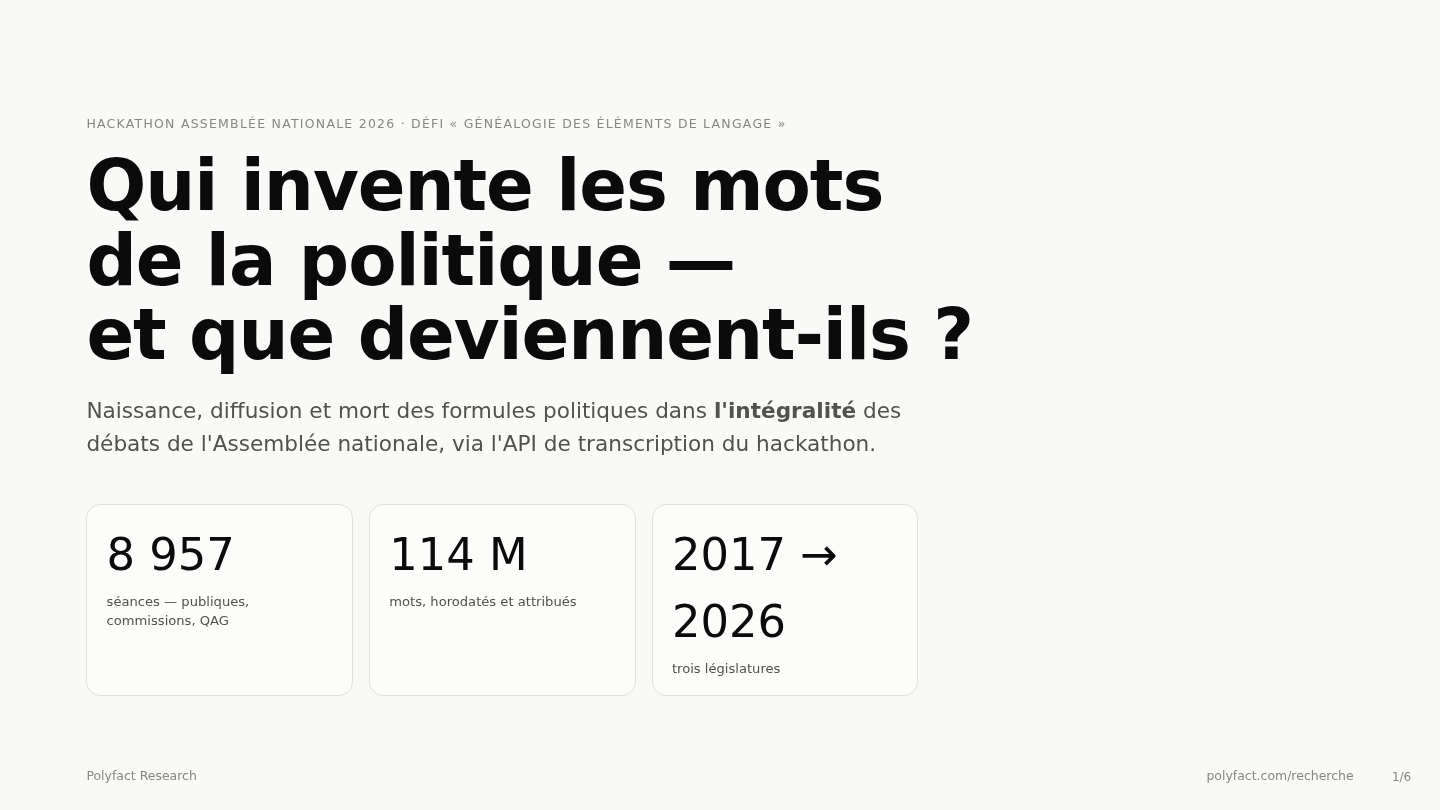
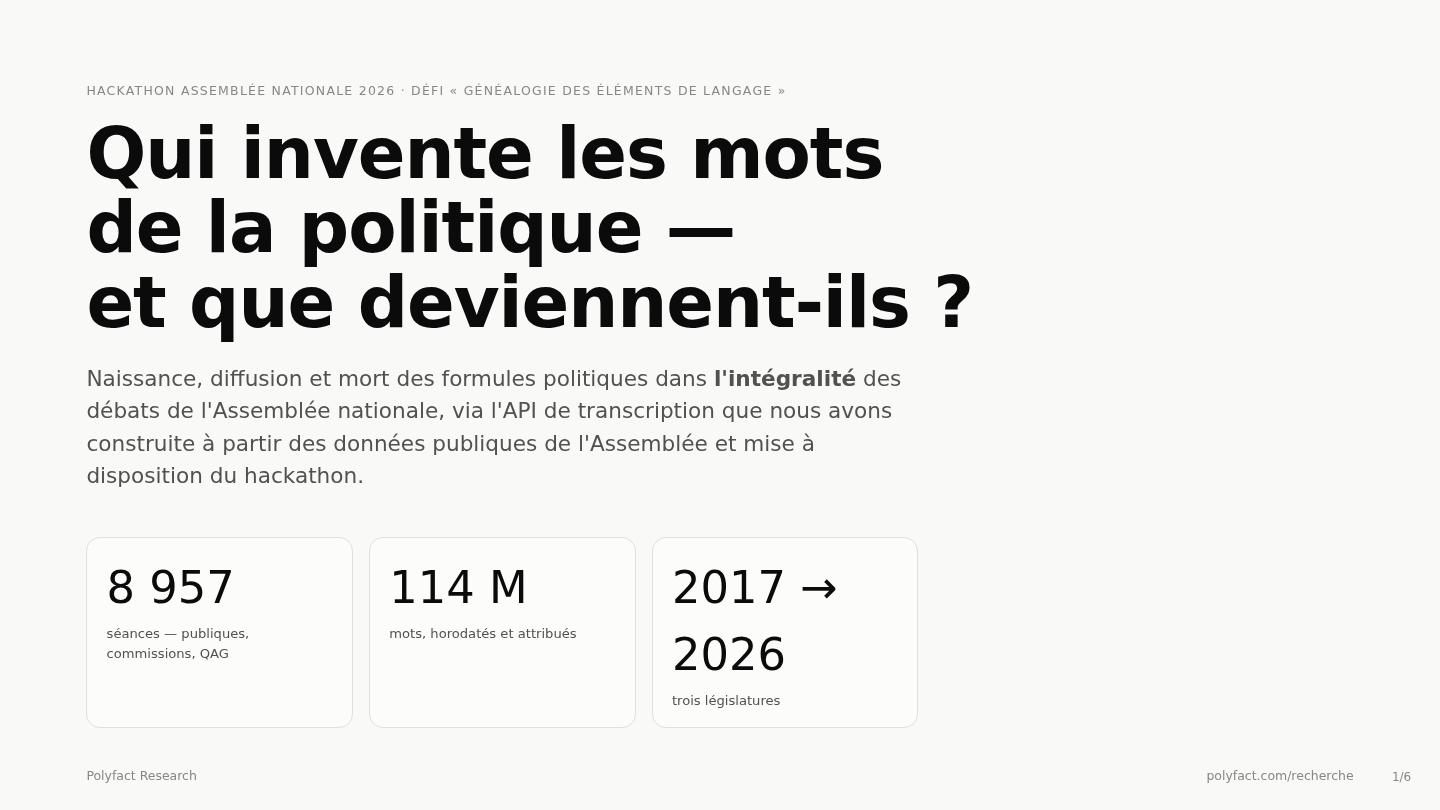
Attribution exacte de l'API : construite par Polyfact sur les données publiques de l'Assemblée, mise à disposition du hackathon

diff --git a/slides/index.html b/slides/index.html
@@ -56,7 +56,7 @@ ul.method li::before { content: ""; position: absolute; left: 0; top: .48em; wid
 <section class="slide active">
   <div class="eyebrow">Hackathon Assemblée nationale 2026 · défi « Généalogie des éléments de langage »</div>
   <h1>Qui invente les mots de la politique —<br/>et que deviennent-ils ?</h1>
-  <p class="sub" style="margin-top:1.4rem">Naissance, diffusion et mort des formules politiques dans <strong>l'intégralité</strong> des débats de l'Assemblée nationale, via l'API de transcription du hackathon.</p>
+  <p class="sub" style="margin-top:1.4rem">Naissance, diffusion et mort des formules politiques dans <strong>l'intégralité</strong> des débats de l'Assemblée nationale, via l'API de transcription que nous avons construite à partir des données publiques de l'Assemblée et mise à disposition du hackathon.</p>
   <div class="tiles" style="max-width:52rem">
     <div class="tile"><div class="v">8 957</div><div class="l">séances — publiques, commissions, QAG</div></div>
     <div class="tile"><div class="v">114 M</div><div class="l">mots, horodatés et attribués</div></div>
@@ -111,7 +111,7 @@ ul.method li::before { content: ""; position: absolute; left: 0; top: .48em; wid
   <div class="eyebrow">Méthode — en 30 secondes</div>
   <h2>Du littéral, de l'exhaustif, du vérifiable</h2>
   <ul class="method">
-    <li><strong>Corpus intégral</strong> via l'API de transcription du hackathon — pas d'échantillon, pas de recherche plafonnée.</li>
+    <li><strong>Corpus intégral</strong> via notre API de transcription, construite sur les données publiques de l'Assemblée et mise à disposition du hackathon — pas d'échantillon, pas de recherche plafonnée.</li>
     <li><strong>Recherche littérale</strong> de chaque formule (variantes + exclusions), <strong>faux positifs audités</strong> sur échantillons, formule par formule.</li>
     <li><strong>Groupes à la date de séance</strong> via les mandats officiels (données ouvertes AMO) — un élu qui change de groupe est compté où il siège.</li>
     <li><strong>Des taux, pas des comptes</strong> : occurrences par million de mots prononcés — le volume transcrit triple entre 2018 et 2025.</li>

diff --git a/slides/build_slides.py b/slides/build_slides.py
@@ -102,7 +102,7 @@ ul.method li::before {{ content: ""; position: absolute; left: 0; top: .48em; wi
 <section class="slide active">
   <div class="eyebrow">Hackathon Assemblée nationale 2026 · défi « Généalogie des éléments de langage »</div>
   <h1>Qui invente les mots de la politique —<br/>et que deviennent-ils ?</h1>
-  <p class="sub" style="margin-top:1.4rem">Naissance, diffusion et mort des formules politiques dans <strong>l'intégralité</strong> des débats de l'Assemblée nationale, via l'API de transcription du hackathon.</p>
+  <p class="sub" style="margin-top:1.4rem">Naissance, diffusion et mort des formules politiques dans <strong>l'intégralité</strong> des débats de l'Assemblée nationale, via l'API de transcription que nous avons construite à partir des données publiques de l'Assemblée et mise à disposition du hackathon.</p>
   <div class="tiles" style="max-width:52rem">
     <div class="tile"><div class="v">8 957</div><div class="l">séances — publiques, commissions, QAG</div></div>
     <div class="tile"><div class="v">114 M</div><div class="l">mots, horodatés et attribués</div></div>
@@ -157,7 +157,7 @@ ul.method li::before {{ content: ""; position: absolute; left: 0; top: .48em; wi
   <div class="eyebrow">Méthode — en 30 secondes</div>
   <h2>Du littéral, de l'exhaustif, du vérifiable</h2>
   <ul class="method">
-    <li><strong>Corpus intégral</strong> via l'API de transcription du hackathon — pas d'échantillon, pas de recherche plafonnée.</li>
+    <li><strong>Corpus intégral</strong> via notre API de transcription, construite sur les données publiques de l'Assemblée et mise à disposition du hackathon — pas d'échantillon, pas de recherche plafonnée.</li>
     <li><strong>Recherche littérale</strong> de chaque formule (variantes + exclusions), <strong>faux positifs audités</strong> sur échantillons, formule par formule.</li>
     <li><strong>Groupes à la date de séance</strong> via les mandats officiels (données ouvertes AMO) — un élu qui change de groupe est compté où il siège.</li>
     <li><strong>Des taux, pas des comptes</strong> : occurrences par million de mots prononcés — le volume transcrit triple entre 2018 et 2025.</li>

diff --git a/README.md b/README.md
@@ -2,7 +2,7 @@
 
 **Défi officiel du [Hackathon 2026 de l'Assemblée nationale](https://hackathon2026.assemblee-nationale.fr/defis/32c39148-b460-4e6a-9616-ec8a59ed4c53)** — qui invente les mots de la politique, qui les reprend, et que deviennent-ils ?
 
-À partir de l'API de transcription de l'Assemblée nationale publiée pour le hackathon, nous avons parcouru **l'intégralité des débats transcrits** — 8 957 séances (séances publiques, commissions, questions au gouvernement), 114 millions de mots, juin 2017 → juillet 2026 — pour retracer la **naissance**, la **diffusion** (au sein d'un groupe, puis entre groupes) et la **mort** de 25 formules politiques.
+À partir de l'API de transcription que Polyfact a construite sur les données publiques de l'Assemblée nationale (vidéos des débats) et mise à disposition du hackathon, nous avons parcouru **l'intégralité des débats transcrits** — 8 957 séances (séances publiques, commissions, questions au gouvernement), 114 millions de mots, juin 2017 → juillet 2026 — pour retracer la **naissance**, la **diffusion** (au sein d'un groupe, puis entre groupes) et la **mort** de 25 formules politiques.
 
 **➡ L'étude complète, interactive et bilingue : [polyfact.com/recherche](https://polyfact.com/recherche)**
 
@@ -25,7 +25,7 @@
 
 ## Méthode (résumé)
 
-1. **Moisson intégrale** (`code/harvest.py`) — l'index des séances puis chaque compte rendu via l'API du hackathon (la recherche de l'API est plafonnée à 500 résultats : pour des séries temporelles honnêtes, il faut tout télécharger), plus le miroir brut pour l'attribution des orateurs non confirmés.
+1. **Moisson intégrale** (`code/harvest.py`) — l'index des séances puis chaque compte rendu via notre API de transcription (la recherche de l'API est plafonnée à 500 résultats : pour des séries temporelles honnêtes, il faut tout télécharger), plus le miroir brut pour l'attribution des orateurs non confirmés.
 2. **Extraction littérale auditée** (`code/extract.py`, lexique dans `code/config/subjects.json`) — variantes orthographiques et flexions sur texte normalisé, exclusions de contextes hors-sujet ; faux positifs audités sur échantillons, formule par formule (`data/audits.json`).
 3. **Groupes à la date de séance** (`code/an_groups.py`) — résolution (uid AN, date) → groupe via les mandats officiels AMO (data.assemblee-nationale.fr) ; un élu qui change de groupe est compté où il siège.
 4. **Des taux, pas des comptes** (`code/aggregate.py`) — occurrences par million de mots prononcés ; le volume transcrit triple entre 2018 et 2025.

diff --git a/hackathon-an-2026/DEFI.md b/hackathon-an-2026/DEFI.md
@@ -10,7 +10,7 @@ Choisir un ou plusieurs éléments de langage et observer leur propagation au se
 Polyfact (Jules Potel)
 
 ### Description longue
-Qui invente les mots de la politique, qui les reprend, et que deviennent-ils ? À partir de l'**API de transcription de l'Assemblée nationale publiée pour le hackathon**, nous avons parcouru l'intégralité des débats transcrits — **8 957 séances** (séances publiques, commissions, questions au gouvernement), soit **114 millions de mots** horodatés et attribués à leur orateur, de juin 2017 à juillet 2026 — pour retracer le cycle de vie complet de **25 formules politiques** : leur naissance publique, leur entrée à l'Assemblée, leur diffusion de groupe en groupe et leur mort — ou leur fossilisation.
+Qui invente les mots de la politique, qui les reprend, et que deviennent-ils ? À partir de l'**API de transcription que Polyfact a construite à partir des données publiques de l'Assemblée nationale** (vidéos des débats) et mise à disposition pour le hackathon, nous avons parcouru l'intégralité des débats transcrits — **8 957 séances** (séances publiques, commissions, questions au gouvernement), soit **114 millions de mots** horodatés et attribués à leur orateur, de juin 2017 à juillet 2026 — pour retracer le cycle de vie complet de **25 formules politiques** : leur naissance publique, leur entrée à l'Assemblée, leur diffusion de groupe en groupe et leur mort — ou leur fossilisation.
 
 **Méthode.** Recherche littérale de chaque formule (variantes orthographiques et flexions, exclusions de contextes hors-sujet), avec **audit des faux positifs** sur échantillons, formule par formule ; rattachement de chaque orateur à son **groupe politique à la date de la séance** via les mandats officiels (données ouvertes AMO), ce qui suit correctement les élus qui changent de groupe ; usages exprimés en **occurrences par million de mots prononcés** (le volume transcrit triple entre 2018 et 2025, les comptes bruts sont trompeurs) ; chaque affirmation **contre-vérifiée dans les données** (dates, attributions, comptages).
 
@@ -58,7 +58,7 @@ Cochez les ressources utilisées en remplaçant `[ ]` par `[x]`.
 - [ ] `legiwatch-database-parlement` — Base de données Parlement ✺ LegiWatch
 - [ ] `legiwatch-serveur-mcp-parlement` — Serveur MCP Parlement ✺ LegiWatch
 
-Ressource principale hors liste : **l'API de transcription de l'Assemblée nationale créée pour le hackathon** (séances publiques + commissions 2017-2026, orateurs identifiés et rattachés à leur groupe), exploitée intégralement.
+Ressource principale hors liste : **l'API de transcription construite par Polyfact à partir des données publiques de l'Assemblée nationale** (vidéos des séances publiques et commissions 2017-2026, orateurs identifiés et rattachés à leur groupe), mise à disposition des participants du hackathon et exploitée intégralement.
 
 ### Galerie
 - [Image 1](images/image-1.png)